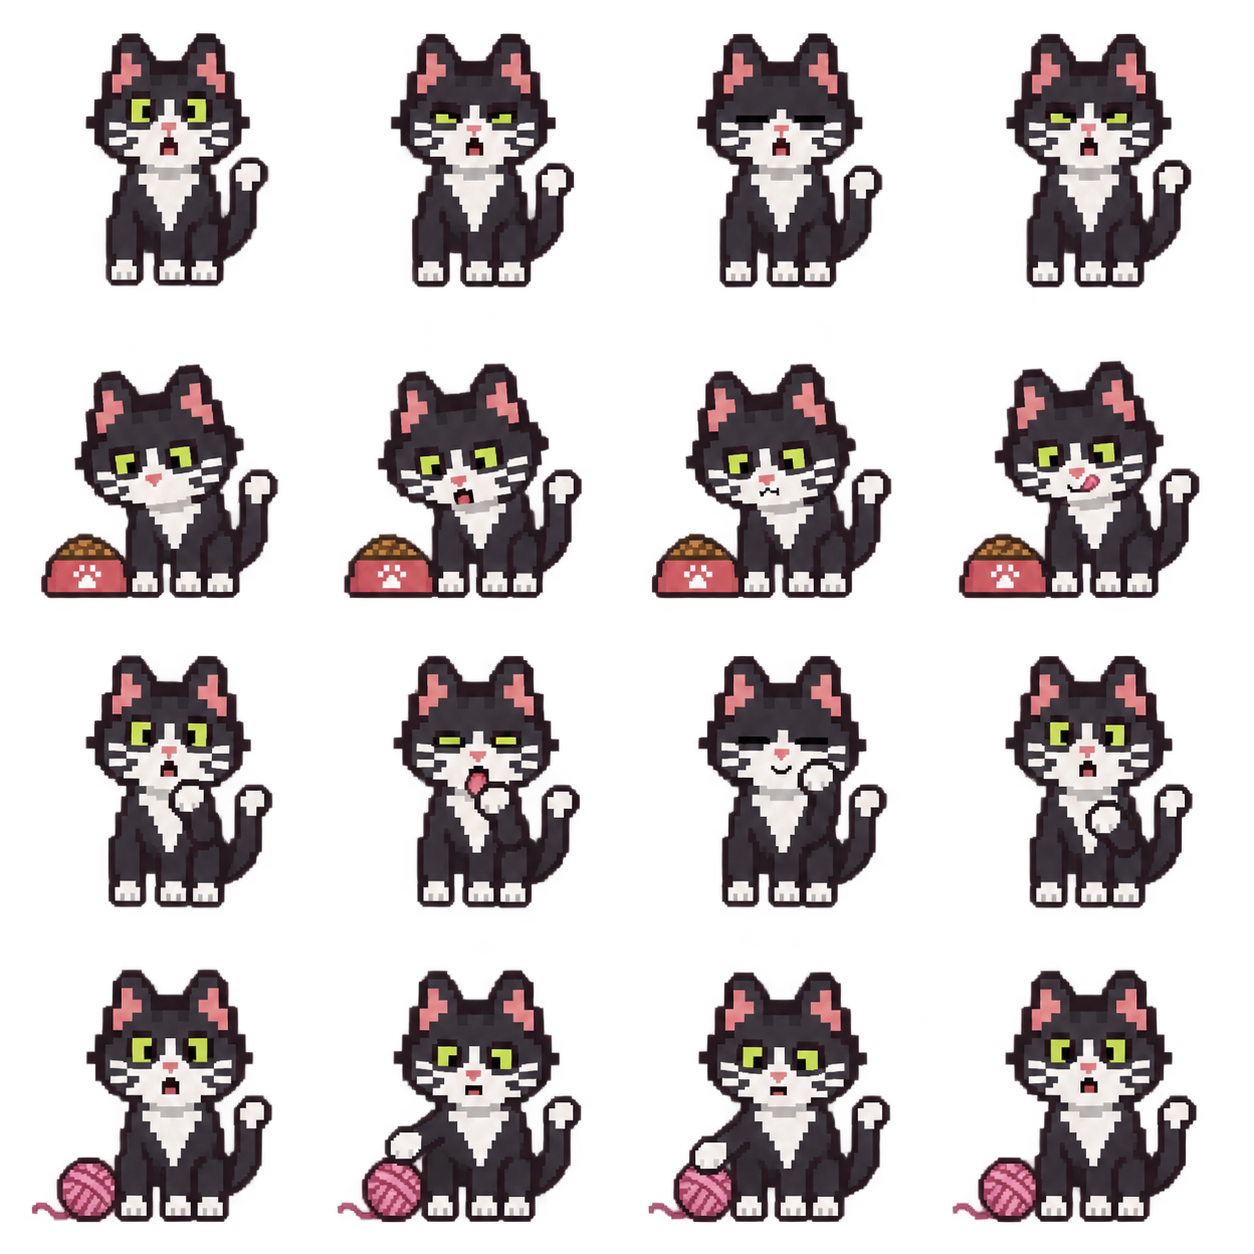
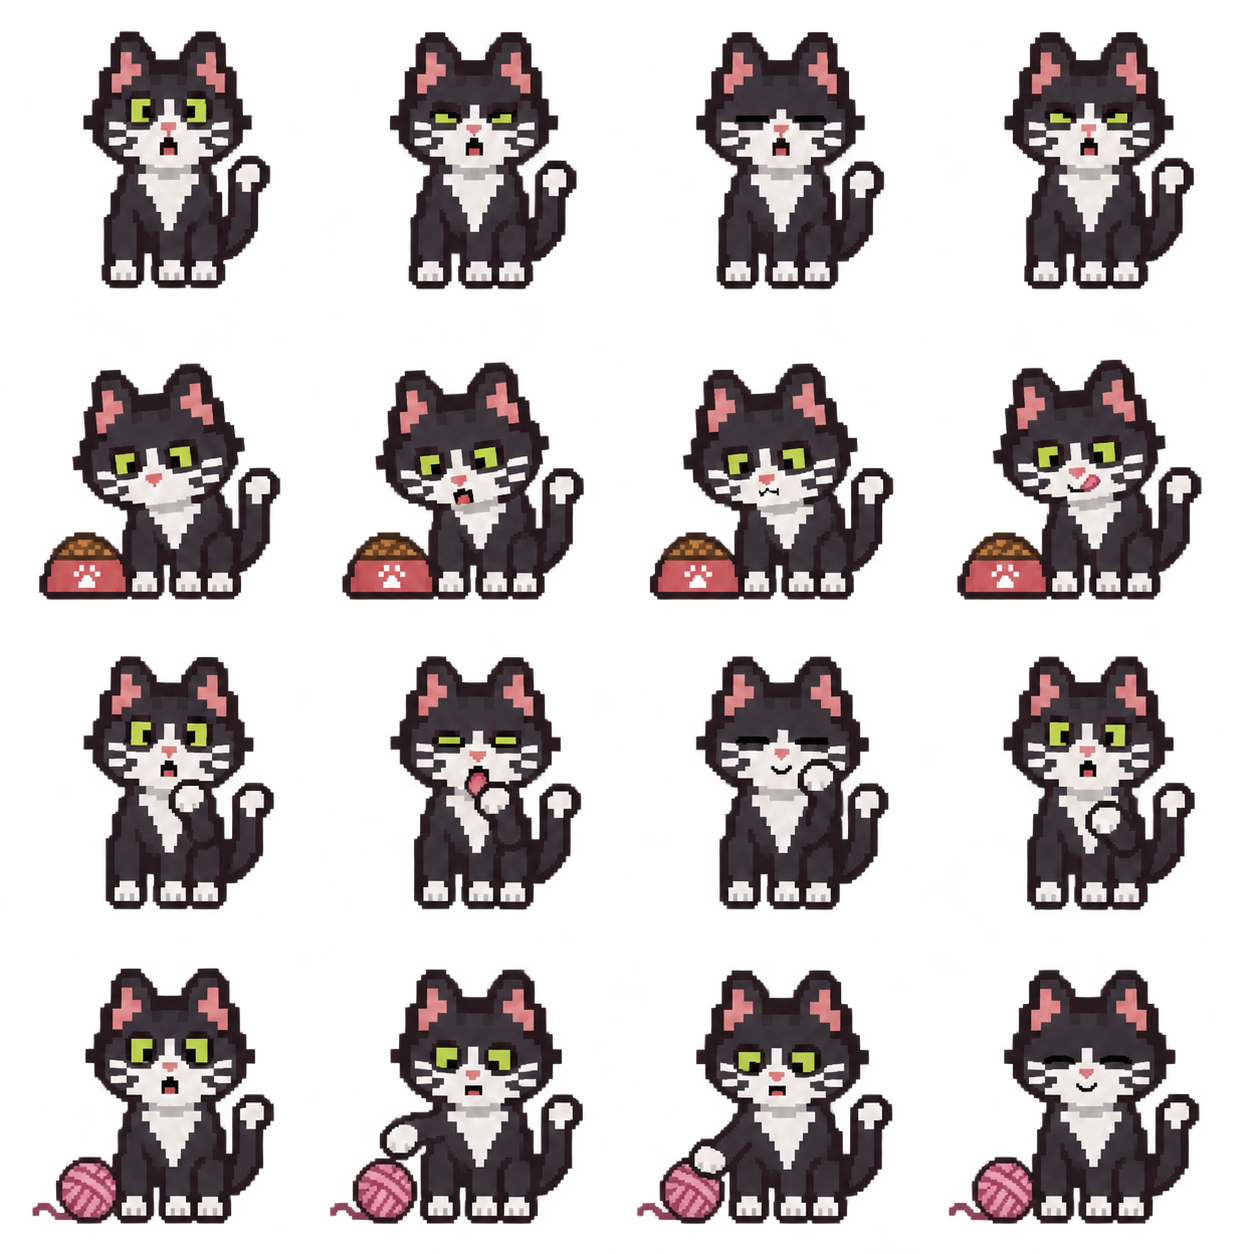
Refine yarn play animation frames

diff --git a/motion.js b/motion.js
@@ -25,9 +25,9 @@ export const sequences = Object.freeze({
     { frame: 12, caption: '找到毛線球', phase: 'notice', ms: 310 },
     { frame: 13, caption: '伸出爪爪', phase: 'reach', ms: 230 },
     { frame: 14, caption: '推推毛線球', phase: 'bat', ms: 230 },
-    { frame: 15, caption: '再來一次', phase: 'return', ms: 220 },
-    { frame: 13, caption: '伸出爪爪', phase: 'reach', ms: 230 },
-    { frame: 14, caption: '拍拍毛線球', phase: 'bat', ms: 260 },
+    { frame: 15, caption: '收回小爪', phase: 'return', ms: 220 },
+    { frame: 14, caption: '再拍拍一下', phase: 'bat', ms: 230 },
+    { frame: 13, caption: '收回小爪', phase: 'return', ms: 230 },
     { frame: 15, caption: '玩得開心！', phase: 'reward', ms: 440 },
   ],
   clean: [
